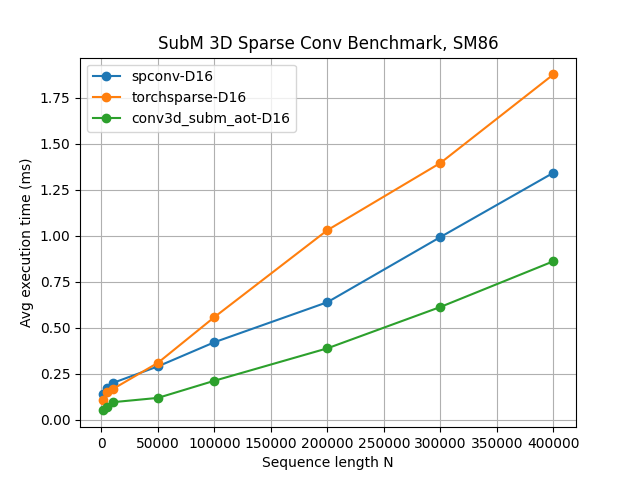
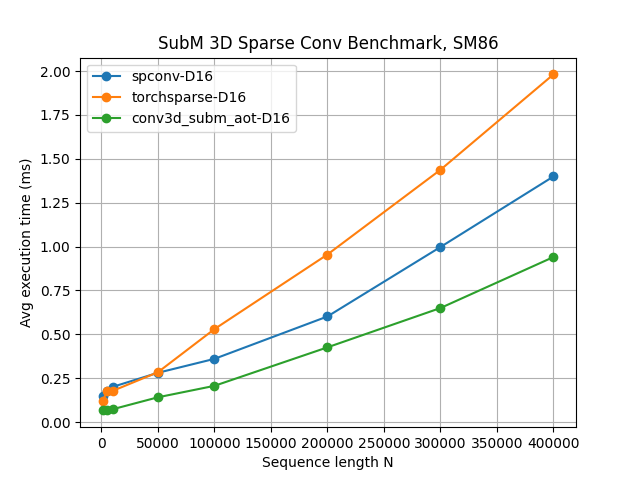
update c++ bindings

diff --git a/ops/conv3d_implicit_gemm.cc b/ops/conv3d_implicit_gemm.cc
@@ -1,5 +1,6 @@
 
 #include <cuda.h>
+#include <cuda_fp16.h>
 #include "json.hpp"
 #include <string>
 #include <cassert>
@@ -32,13 +33,15 @@ Conv3DImplicitGemmKernel::Conv3DImplicitGemmKernel(
     global_scratch_size = config["meta"]["global_scratch_size"];
     num_warps = config["meta"]["num_warps"];
 
-    block_n = config["config"]["block_sizes"]["BLOCK_N"];
-    block_k = config["config"]["block_sizes"]["BLOCK_K"];
-    block_dp = config["config"]["block_sizes"]["BLOCK_Dp"];
+    block_n = config["config"]["BLOCK_N"];
+    block_k = config["config"]["BLOCK_K"];
+    block_dp = config["config"]["BLOCK_Dp"];
     div_k = config["config"]["div_k"];
     div_d = config["config"]["div_d"];
     div_dp = config["config"]["div_dp"];
     dtype = config["config"]["dtype"];
+    parallel_k = config["config"]["parallel_k"];
+    acc_dtype = config["config"]["acc_dtype"];
     int sm = config["config"]["sm"];
     
     // Get current device
@@ -55,8 +58,8 @@ Conv3DImplicitGemmKernel::Conv3DImplicitGemmKernel(
 
     valid = (device_sm == sm);
     if (!valid) {
-        std::cerr << "Device SM " << device_sm << " is not equal to the required SM " << sm
-                  << ". Kernel will not be loaded from " << ptx_path << std::endl;
+        // std::cerr << "Device SM " << device_sm << " is not equal to the required SM " << sm
+        //           << ". Kernel will not be loaded from " << ptx_path << std::endl;
         return;
     }
 
@@ -102,7 +105,18 @@ void Conv3DImplicitGemmKernel::run(
     assert((!div_dp || DPrime % 16 == 0) && "DPrime must be divisible by 16 if div_dp is true");
 
     int threads = num_warps * 32;
-    int blocks = ((NPrime + block_n - 1) / block_n) * ((DPrime + block_dp - 1) / block_dp);
+    int blocks = ((NPrime + block_n - 1) / block_n) * ((DPrime + block_dp - 1) / block_dp) * parallel_k;
+
+    if (parallel_k > 1) {
+        int elems = NPrime * DPrime;
+        if (dtype == "fp16") {
+            cuMemsetD16Async(output, 0, elems, stream);
+        } else if (dtype == "fp32") {
+            cuMemsetD32Async(output, 0, elems, stream);
+        } else {
+            throw std::runtime_error("Unsupported dtype: " + dtype);
+        }
+    }
 
     // we dont have global scratch for now
     CUdeviceptr global_scratch;

diff --git a/ops/conv3d_implicit_gemm_torch.cc b/ops/conv3d_implicit_gemm_torch.cc
@@ -76,7 +76,8 @@ torch::Tensor conv3d_implicit_gemm_torch(
     torch::Tensor features, // [N, D]
     torch::Tensor indices, // [N', K**3]
     torch::Tensor weights, // [K**3, D, D']
-    int64_t K
+    int64_t K,
+    std::string acc_dtype
 ) {
     TORCH_CHECK(features.is_cuda(),  "features must be a CUDA tensor");
     TORCH_CHECK(indices.is_cuda() , "indices must be a CUDA tensor");
@@ -126,7 +127,7 @@ torch::Tensor conv3d_implicit_gemm_torch(
         double best_time = 1e9;
         int best_kernel_index = -1;
         for (size_t i = 0; i < kernels.size(); ++i) {
-            if (kernels[i]->can_run(N, NPrime, D, DPrime, K, dtype)) {
+            if (kernels[i]->can_run(N, NPrime, D, DPrime, K, acc_dtype, dtype)) {
                 double time = benchmark([&]() {
                     kernels[i]->run(
                         features_ptr, indices_ptr, weights_ptr, output_ptr,

diff --git a/ops/conv3d_implicit_gemm.h b/ops/conv3d_implicit_gemm.h
@@ -25,6 +25,8 @@ class Conv3DImplicitGemmKernel {
     bool div_k;
     bool div_d;
     bool div_dp;
+    int parallel_k;
+    std::string acc_dtype;
     std::string dtype; // "fp16", "fp32"
     
     bool valid;
@@ -61,9 +63,10 @@ public:
         int D,
         int DPrime,
         int K,
+        std::string acc_dtype,
         std::string dtype
     ) const {
-        return valid && (dtype == this->dtype) &&
+        return valid && (dtype == this->dtype) && (acc_dtype == this->acc_dtype) &&
                (!div_k || K % 16 == 0) &&
                (!div_d || D % 16 == 0) &&
                (!div_dp || DPrime % 16 == 0);

diff --git a/ops/conv3d_implicit_gemm.py b/ops/conv3d_implicit_gemm.py
@@ -13,8 +13,8 @@ def init_kernels():
     init = True
 
 
-def conv3d_implicit_gemm(input: Tensor, indices: Tensor, weight: Tensor, kernel_size: int) -> Tensor:
+def conv3d_implicit_gemm(input: Tensor, indices: Tensor, weight: Tensor, kernel_size: int, acc_dtype: str = "fp32") -> Tensor:
     init_kernels()
     return torch.ops.conv3d_implicit_gemm.conv3d_implicit_gemm_torch(
-        input, indices, weight, kernel_size
+        input, indices, weight, kernel_size, acc_dtype
     )

diff --git a/bench.py b/bench.py
@@ -206,7 +206,7 @@ def main():
     args = parser.parse_args()
 
     # list of implementations
-    implementations = [SpconvSubM, TorchsparseSubM, ImplicitGemmAccf16, ImplicitGemmAccf32, Conv3DSubmAot]
+    implementations = [SpconvSubM, TorchsparseSubM, Conv3DSubmAot]
 
     all_results = {}
     for impl in implementations:
